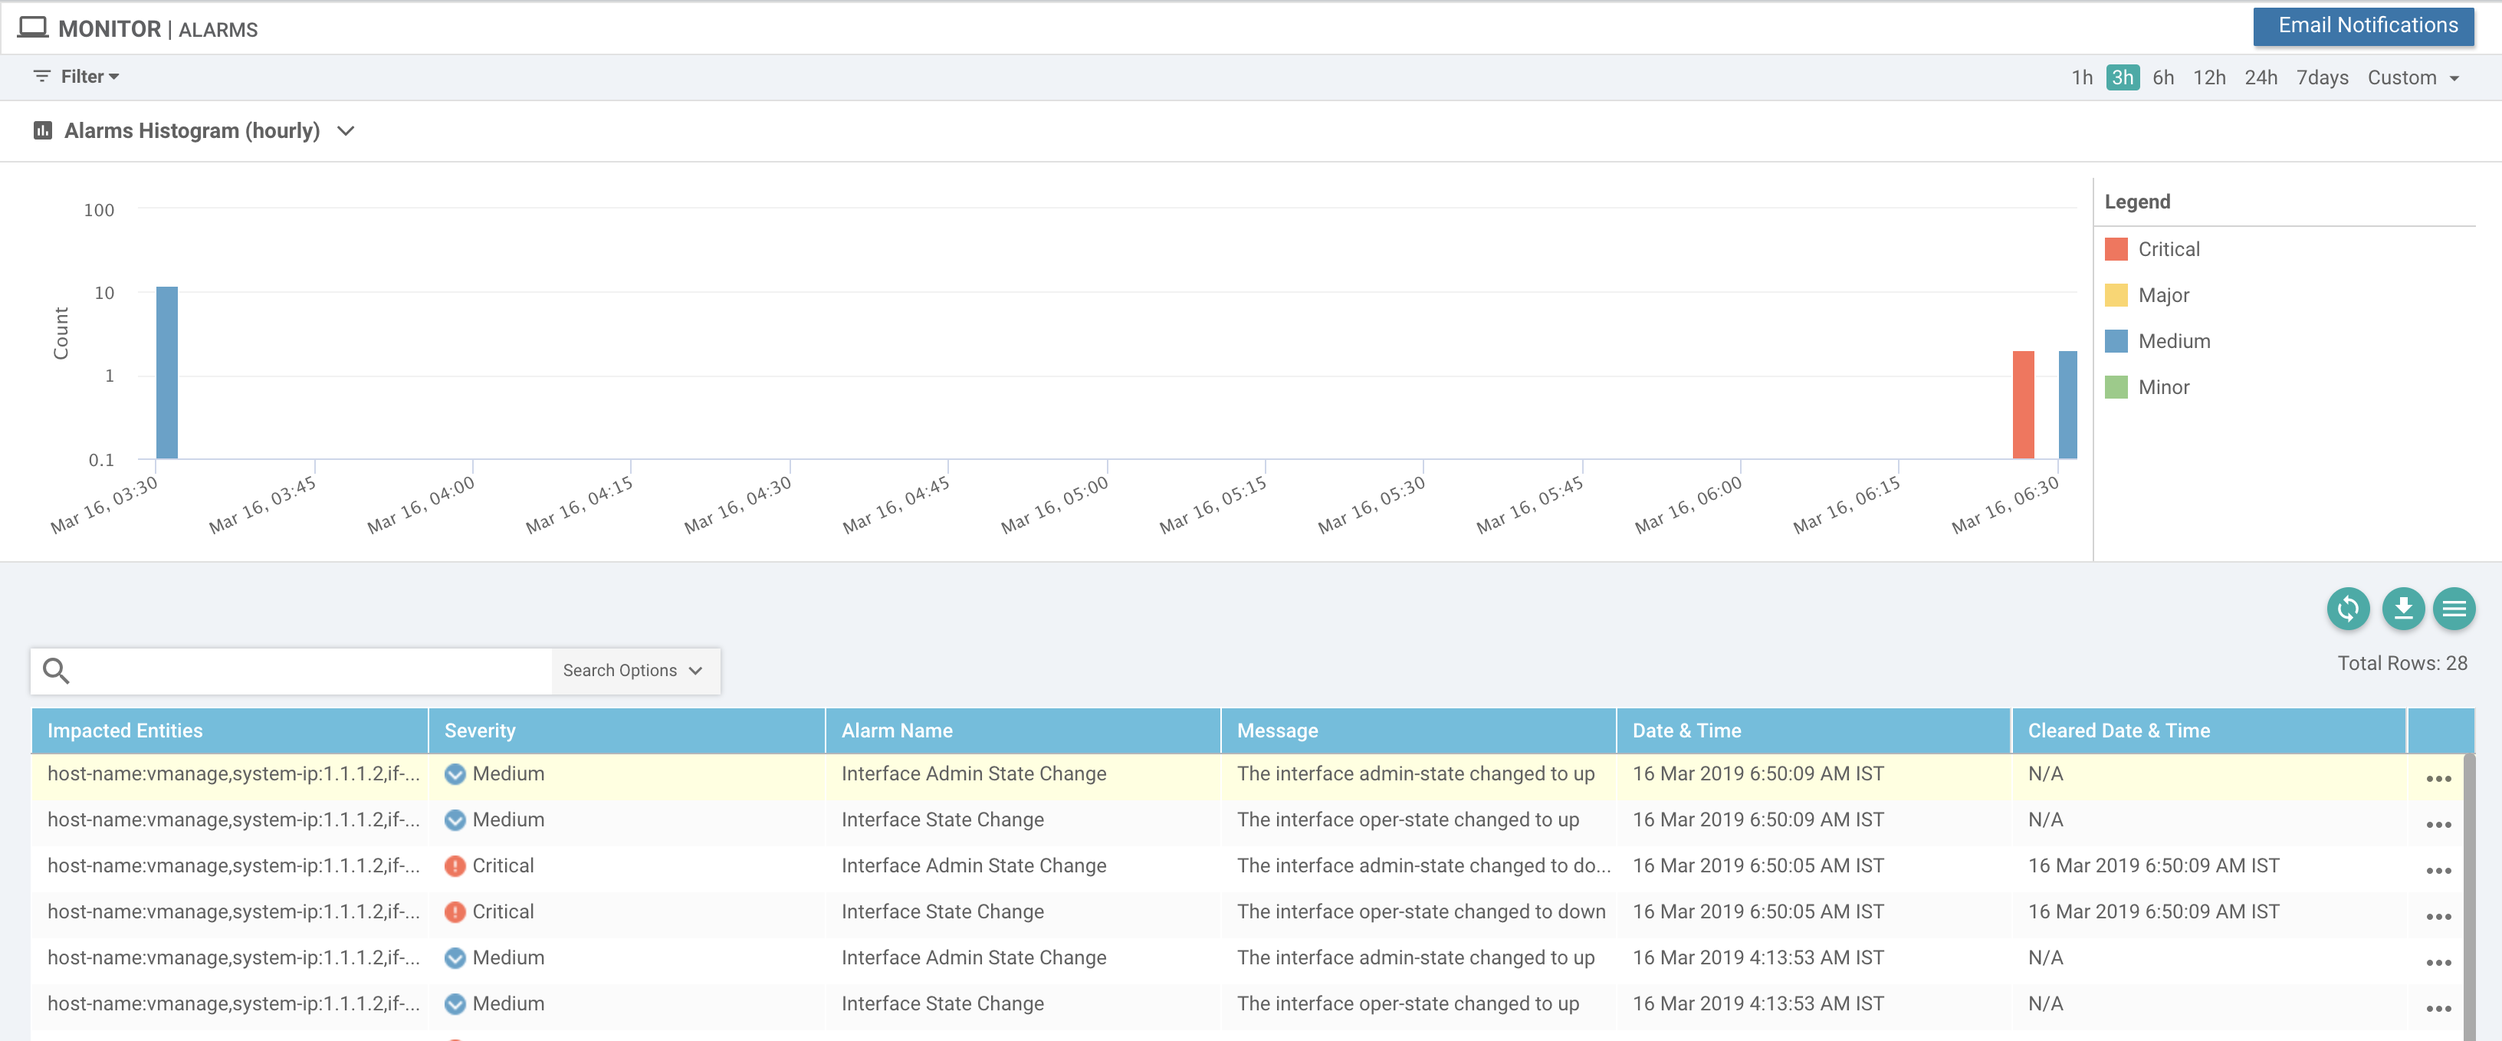
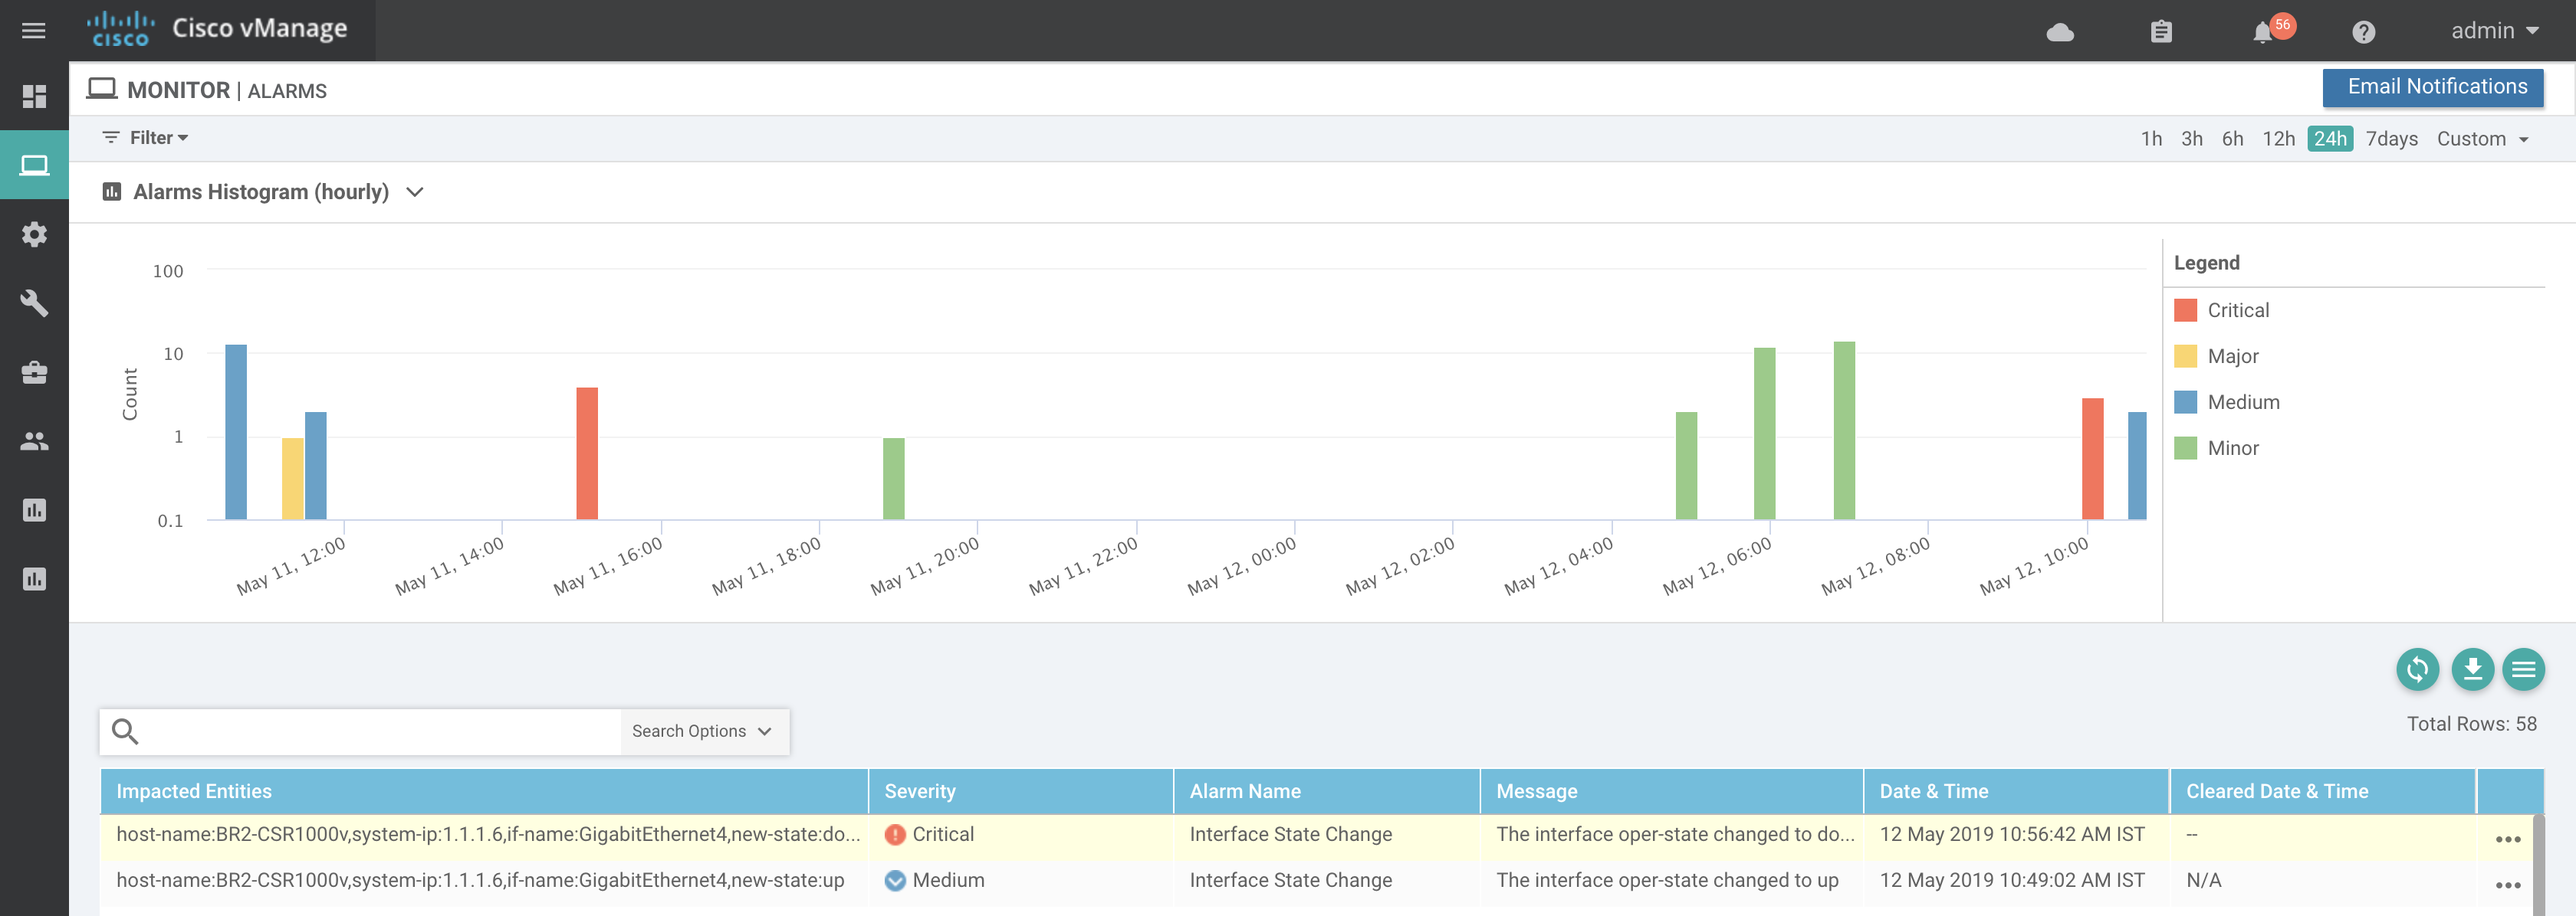
Webex Teams Integration

diff --git a/webhooks/webhook.py b/webhooks/webhook.py
@@ -1,13 +1,32 @@
-from flask import Flask, request
+from flask import Flask, request, jsonify
+from ciscosparkapi import CiscoSparkAPI, SparkApiError
 import json
+import os
+
+bearer_token = os.environ.get("bearer_token")
+room_id = os.environ.get("room_id")
+
+if bearer_token is None or room_id is None:
+    print("\nWebex Teams Authorization and roomId details must be set via environment variables using below commands")
+    print("export bearer_token=<authorization bearer token>")
+    print("export room_id=<webex teams room-id>")
+    exit()
 
 app = Flask(__name__)
 
 @app.route('/',methods=['POST'])
 def alarms():
-   data = json.loads(request.data)
-   print(data)
-   return "OK"
+   try:
+      data = json.loads(request.data)
+      print(data)
+      message =  '''Team, alarm event : **''' + data['eventname'] + '** ------ **' + data['message'] + '''** is recieved from vManage and here are the complete details <br><br>'''  + str(data)
+      api = CiscoSparkAPI(access_token=bearer_token)
+      res=api.messages.create(roomId=room_id, markdown=message)
+      print(res)
+   except Exception as exc:
+      return jsonify(str(exc)), 500
+   
+   return jsonify("Message sent to Webex Teams"), 200
 
 if __name__ == '__main__':
    app.run(host='0.0.0.0', port=5001, debug=True)

diff --git a/webhooks/README.md b/webhooks/README.md
@@ -8,7 +8,49 @@
 
 -  This feature is supported from vManage 18.3 release onwards
 
-# Configure
+# Requirements
+
+To use this application you will need:
+
+* Python 3.7+
+* Cisco SD-WAN 18.3+
+
+# Install and Setup
+
+Clone the code to local machine.
+
+```
+git clone https://github.com/suchandanreddy/sdwan-apis.git
+cd sdwan-apis/webhooks
+```
+
+Setup Python Virtual Environment (requires Python 3.7+)
+
+```
+python3.7 -m venv venv
+source venv/bin/activate
+pip3 install -r requirements.txt
+```
+
+Setup local environment variables to provide Webex Teams Authorization and Room ID details.
+
+Examples:
+
+For MAC OSX and Ubuntu Environment:
+
+```
+export bearer_token=<authorization bearer token>
+export room_id=<webex teams room-id>
+```
+
+For Windows Environment:
+
+```
+set bearer_token=<authorization bearer token>
+set room_id=<webex teams room-id>
+```
+
+# vManage Configuration
 
 Steps to enable webhook notifications for pushing alarms to external systems.
 
@@ -37,49 +79,29 @@ Notifications can be enabled for all devices or custom list of devices.
 
 From vManage shell, run curl command and send dummy HTTP POST request to webhook server to make sure it is reachable.
 
-Sample output (using webhook.site as server)
+**Sample output**
 
 ```
-vmanage:~$ curl -v -X POST -H 'Content-type: application/json' https://webhook.site/cb208ecc-4520-4bcd-b4b3-28f58d7b129d
-*   Trying 188.226.137.35...
+vmanage# vshell
+vmanage:~$ curl -v -X POST -H 'Content-type: application/json' http://<webhook-server-ip>:5001/
+*   Trying <webhook-server-ip>...
 * TCP_NODELAY set
-* Connected to webhook.site (188.226.137.35) port 443 (#0)
-* found 157 certificates in /etc/ssl/certs/ca-certificates.crt
-* ALPN, offering http/1.1
-* SSL connection using TLS1.2 / ECDHE_RSA_AES_256_GCM_SHA384
-* 	 server certificate verification OK
-* 	 server certificate status verification SKIPPED
-* 	 common name: webhook.site (matched)
-* 	 server certificate expiration date OK
-* 	 server certificate activation date OK
-* 	 certificate public key: RSA
-* 	 certificate version: #3
-* 	 subject: CN=webhook.site
-* 	 start date: Mon, 17 Dec 2018 11:32:42 GMT
-* 	 expire date: Sun, 17 Mar 2019 11:32:42 GMT
-* 	 issuer: C=US,O=Let's Encrypt,CN=Let's Encrypt Authority X3
-* 	 compression: NULL
-* ALPN, server did not agree to a protocol
-> POST /cb208ecc-4520-4bcd-b4b3-28f58d7b129d HTTP/1.1
-> Host: webhook.site
+* Connected to <webhook-server-ip> (<webhook-server-ip>) port 5001 (#0)
+> POST / HTTP/1.1
+> Host: <webhook-server-ip>:5001
 > User-Agent: curl/7.58.0
 > Accept: */*
 > Content-type: application/json
 >
-< HTTP/1.1 200 OK
-< Server: nginx/1.10.3
-< Content-Type: text/plain; charset=UTF-8
-< Transfer-Encoding: chunked
-< Vary: Accept-Encoding
-< X-Request-Id: fbcad435-4164-440b-a4de-0d82efa2fb41
-< X-Token-Id: cb208ecc-4520-4bcd-b4b3-28f58d7b129d
-< Cache-Control: no-cache, private
-< Date: Sat, 16 Mar 2019 12:33:05 GMT
-< X-RateLimit-Limit: 30
-< X-RateLimit-Remaining: 29
+* HTTP 1.0, assume close after body
+< HTTP/1.0 500 INTERNAL SERVER ERROR
+< Content-Type: application/json
+< Content-Length: 44
+< Server: Werkzeug/0.15.2 Python/3.7.3
+< Date: Sun, 12 May 2019 13:22:25 GMT
 <
-* Connection #0 to host webhook.site left intact
-vmanage:~$
+"Expecting value: line 1 column 1 (char 0)"
+* Closing connection 0
 ```
 
 # Set up Webhook server on ubuntu
@@ -88,22 +110,23 @@ Now let’s try to set up webhook server on ubuntu to accept notifications sent 
 
 - In order to accept HTTP post requests sent from vManage, we need to enable http web server and design API route.
 - Below code spins up flask web server listening on port 5001 for HTTP POST request
-- Defined alarms() functions accepts the POST request at route http://server-ip:port/ and extracts the data from request.
+- Defined alarms() function that accepts the POST request at route http://server-ip:port/ and extracts the data from request, then it sends message
+to Webex Teams Room. 
 
 ```
-from flask import Flask, request
-import json
-
-app = Flask(__name__)
-
 @app.route('/',methods=['POST'])
 def alarms():
-   data = json.loads(request.data)
-   print(data)
-   return "OK"
-
-if __name__ == '__main__':
-   app.run(host='0.0.0.0', port=5001, debug=True)
+   try:
+      data = json.loads(request.data)
+      print(data)
+      message =  '''Team, alarm event : **''' + data['eventname'] + '** ------ **' + data['message'] + '''** is recieved from vManage and here are the complete details <br><br>'''  + str(data)
+      api = CiscoSparkAPI(access_token=bearer_token)
+      res=api.messages.create(roomId=room_id, markdown=message)
+      print(res)
+   except Exception as exc:
+      return jsonify(str(exc)), 500 
+   
+   return jsonify("Message sent to Webex Teams"), 200
 ```
 
 ## Logs from Webhook Server:
@@ -125,17 +148,12 @@ $python3 webhook.py &
  * Debugger PIN: 216-076-679
 ```
 
-Sample output on webhook server on receiving notifications from the vManage.
+Sample JSON output on webhook server on receiving notifications from the vManage.
 
 ```
- {'devices': [{'system-ip': '1.1.1.2'}], 'eventname': 'interface-admin-state-change', 'type': 'interface-admin-state-change', 'rulename': 'interface-admin-state-change', 'component': 'VPN', 'entry_time': 1552699205000, 'statcycletime': 1552699205000, 'message': 'The interface admin-state changed to down', 'severity': 'Critical', 'severity_number': 1, 'uuid': '735d1df8-acba-47d6-94c1-a76fe6f7b12e', 'values': [{'host-name': 'vmanage', 'system-ip': '1.1.1.2', 'if-name': 'eth0', 'new-admin-state': 'down', 'vpn-id': '0'}], 'rule_name_display': 'Interface_Admin_State_Change', 'receive_time': 1552699205615, 'values_short_display': [{'host-name': 'vmanage', 'system-ip': '1.1.1.2', 'if-name': 'eth0', 'new-admin-state': 'down'}], 'acknowledged': False, 'active': True}
-<vmanage-ip> - - [16/Mar/2019 01:22:14] "POST / HTTP/1.1" 200 -
-{'devices': [{'system-ip': '1.1.1.2'}], 'eventname': 'interface-state-change', 'type': 'interface-state-change', 'rulename': 'interface-state-change', 'component': 'VPN', 'entry_time': 1552699205000, 'statcycletime': 1552699205000, 'message': 'The interface oper-state changed to down', 'severity': 'Critical', 'severity_number': 1, 'uuid': 'caffbef4-3ab2-49bc-b9e9-1d8e79753d2b', 'values': [{'host-name': 'vmanage', 'system-ip': '1.1.1.2', 'if-name': 'eth0', 'new-state': 'down', 'vpn-id': '0'}], 'rule_name_display': 'Interface_State_Change', 'receive_time': 1552699205815, 'values_short_display': [{'host-name': 'vmanage', 'system-ip': '1.1.1.2', 'if-name': 'eth0', 'new-state': 'down'}], 'acknowledged': False, 'active': True}
-<vmanage-ip> - - [16/Mar/2019 01:22:14] "POST / HTTP/1.1" 200 -
-{'devices': [{'system-ip': '1.1.1.2'}], 'eventname': 'interface-admin-state-change', 'type': 'interface-admin-state-change', 'rulename': 'interface-admin-state-change', 'component': 'VPN', 'entry_time': 1552699209000, 'statcycletime': 1552699209000, 'message': 'The interface admin-state changed to up', 'severity': 'Medium', 'severity_number': 3, 'uuid': 'b1785534-8132-4039-8472-d64e04d4e558', 'values': [{'host-name': 'vmanage', 'system-ip': '1.1.1.2', 'if-name': 'eth0', 'new-admin-state': 'up', 'vpn-id': '0'}], 'rule_name_display': 'Interface_Admin_State_Change', 'receive_time': 1552699209618, 'values_short_display': [{'host-name': 'vmanage', 'system-ip': '1.1.1.2', 'if-name': 'eth0', 'new-admin-state': 'up'}], 'acknowledged': False, 'cleared_events': ['735d1df8-acba-47d6-94c1-a76fe6f7b12e'], 'active': False}
-<vmanage-ip> - - [16/Mar/2019 01:22:18] "POST / HTTP/1.1" 200 -
-{'devices': [{'system-ip': '1.1.1.2'}], 'eventname': 'interface-state-change', 'type': 'interface-state-change', 'rulename': 'interface-state-change', 'component': 'VPN', 'entry_time': 1552699209000, 'statcycletime': 1552699209000, 'message': 'The interface oper-state changed to up', 'severity': 'Medium', 'severity_number': 3, 'uuid': '2ca8864f-8a94-4620-9b7a-716fa506e860', 'values': [{'host-name': 'vmanage', 'system-ip': '1.1.1.2', 'if-name': 'eth0', 'new-state': 'up', 'vpn-id': '0'}], 'rule_name_display': 'Interface_State_Change', 'receive_time': 1552699209818, 'values_short_display': [{'host-name': 'vmanage', 'system-ip': '1.1.1.2', 'if-name': 'eth0', 'new-state': 'up'}], 'acknowledged': False, 'cleared_events': ['caffbef4-3ab2-49bc-b9e9-1d8e79753d2b'], 'active': False}
-<vmanage-ip> - - [16/Mar/2019 01:22:18] "POST / HTTP/1.1" 200 -
+ {'devices': [{'system-ip': '1.1.1.6'}], 'eventname': 'interface-state-change', 'type': 'interface-state-change', 'rulename': 'interface-state-change', 'component': 'VPN', 'entry_time': 1557638802000, 'statcycletime': 1557638802000, 'message': 'The interface oper-state changed to down', 'severity': 'Critical', 'severity_number': 1, 'uuid': '8459e3a0-5bea-4370-ab57-6f45f8022d66', 'values': [{'host-name': 'BR2-CSR1000v', 'system-ip': '1.1.1.6', 'if-name': 'GigabitEthernet4', 'new-state': 'down', 'vpn-id': '10'}], 'rule_name_display': 'Interface_State_Change', 'receive_time': 1557638802875, 'values_short_display': [{'host-name': 'BR2-CSR1000v', 'system-ip': '1.1.1.6', 'if-name': 'GigabitEthernet4', 'new-state': 'down'}], 'acknowledged': False, 'active': True}
+
+{'devices': [{'system-ip': '1.1.1.6'}], 'eventname': 'interface-state-change', 'type': 'interface-state-change', 'rulename': 'interface-state-change', 'component': 'VPN', 'entry_time': 1557638912000, 'statcycletime': 1557638912000, 'message': 'The interface oper-state changed to up', 'severity': 'Medium', 'severity_number': 3, 'uuid': '7a514a95-7c24-4348-b7e9-8d6775a3bc36', 'values': [{'host-name': 'BR2-CSR1000v', 'system-ip': '1.1.1.6', 'if-name': 'GigabitEthernet4', 'new-state': 'up', 'vpn-id': '10'}], 'rule_name_display': 'Interface_State_Change', 'receive_time': 1557638912888, 'values_short_display': [{'host-name': 'BR2-CSR1000v', 'system-ip': '1.1.1.6', 'if-name': 'GigabitEthernet4', 'new-state': 'up'}], 'acknowledged': False, 'cleared_events': ['8459e3a0-5bea-4370-ab57-6f45f8022d66'], 'active': False}
 ```
 
 # Alarms on vManage
@@ -144,8 +162,14 @@ Sample output on webhook server on receiving notifications from the vManage.
 
 ![alarms](images/alarms.png)
 
+# Alert on Webex Teams Space
+
+- The script sends the message to provided Webex Teams Space/Room and here is the sample output. 
+
+![Webex_teams](webex_teams_message.png)
+
 # References
 
-online webhooks can be set up using https://webhook.site
+Online webhooks can be set up using https://webhook.site
 
 sdwan docs : https://sdwan-docs.cisco.com/Product_Documentation/vManage_How-Tos/Operation/Configure_Email_Notifications_for_Alarms
